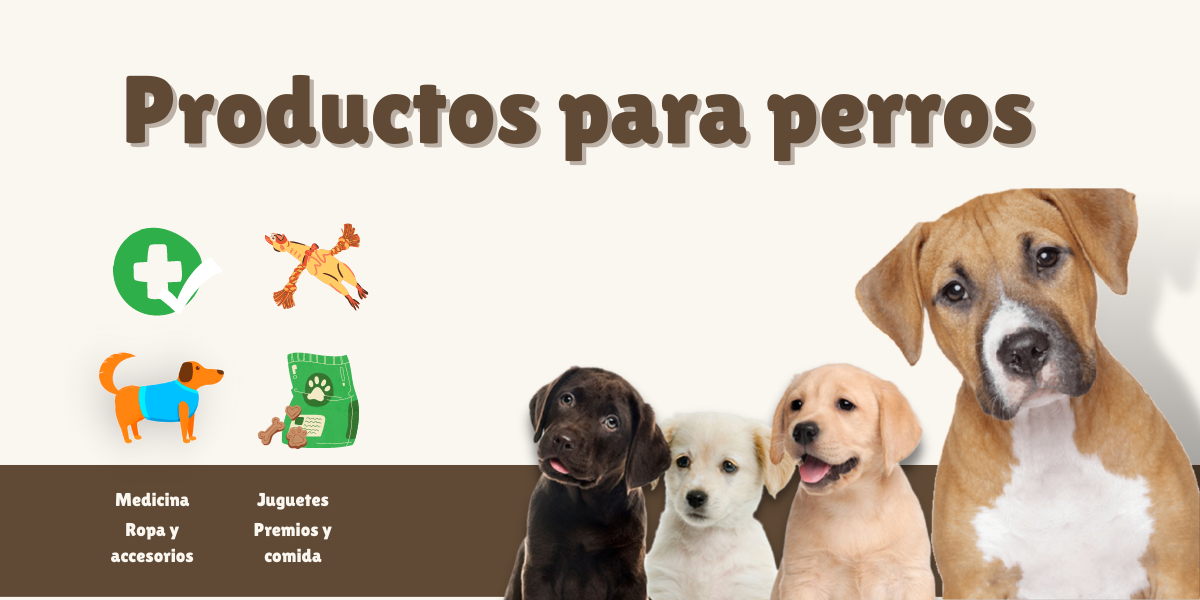
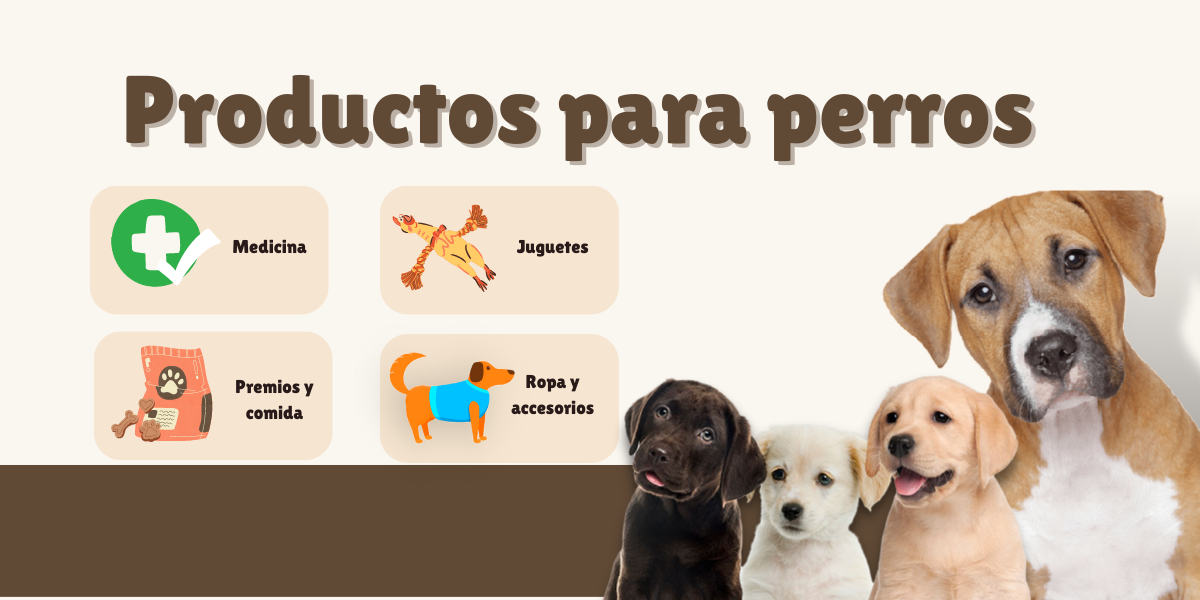
indice en proceso

diff --git a/css/indice.css b/css/indice.css
@@ -43,37 +43,35 @@
 /* ---------- PRODUCTOS ---------- */
 .productos{
     width: 90%;
-    display: flex;
+    display: grid;
+    /* repite el tamaño de cada columna en un 50% */
+    grid-template-columns: repeat(2, 50%);
     margin: 0 auto;
 }
 .productos-global {
-    margin: 2% 1%;
-    width: 100%;
+    margin: 0 auto;
+    width: 90%;
     display: flex;
     background-color: bisque;
     border-radius: 15px;
+    border: 1px solid red;
 }
+/* ----- FOTO FRL DIV */
 .productos-global>a{
-    padding: 10% 0% 10% 3%;
-    width: 150px;
-    border-radius: 15px;
+    width: 20%;
 }
 .productos-global>a>img{
-    width: 150px;
-    height: 150px;
-}
-    /* ----- DETALLE DENTRO DEL DIV ----- */
-.detalle-producto{
     width: 100%;
-    padding: 2%;
-    text-align: center;
-    margin: 2% 1%;
-    background-color: antiquewhite;
-    border-radius: 5px;
+}
+    /* ----- OPCIONES DENTRO DEL DIV ----- */
+.detalle-producto{
+    width: 80%;
 }
 .detalle-producto>div>img{
-    width: 70px;
-    height: 70px;
+
+
+    width: 15%;
+    height: 100px;
 }
 
 /* ---------- PROMOCIONES ---------- */
